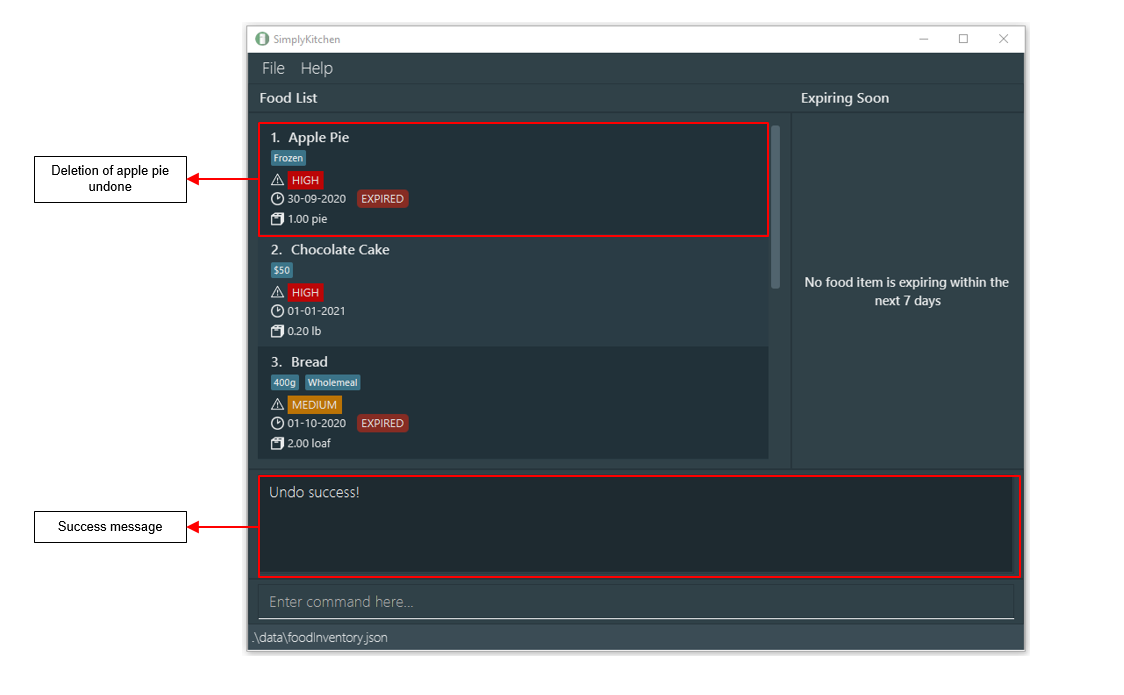
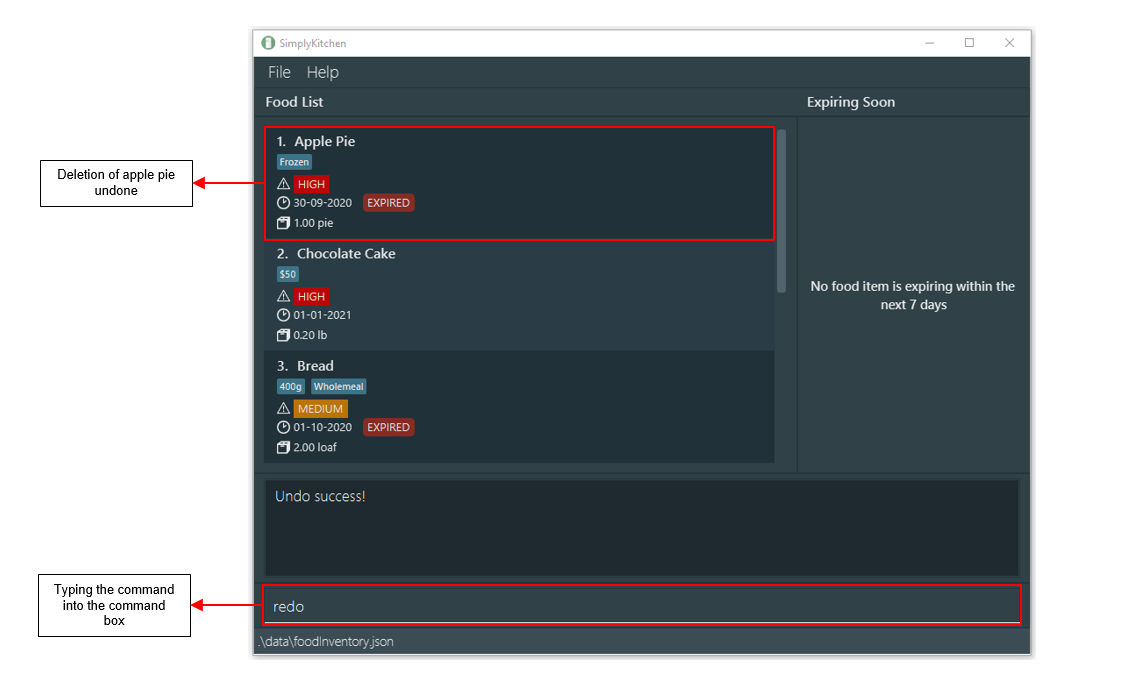
Update images

diff --git a/docs/UserGuide.md b/docs/UserGuide.md
@@ -286,7 +286,7 @@ The constraints for the individual parameters of this command (description, expi
 * `edit 2 d/canned tuna q/0.5 can t/` edits the food description of the 2nd food item to be `canned tuna`, quantity to `0.50 can` and clears all existing tags.
 
 Steps:
-1. Type `edit 2 d/canned tuna q/0.5 can t/` in the _Command Box_.
+1. Type `edit 2 p/high e/25-11-2020` in the _Command Box_.
 2. Press `Enter` to execute.
 
 Before the `edit` command is executed:
@@ -341,7 +341,7 @@ After the `delete` command is executed:
 
 ![After executing the delete command](images/DeleteCommandAfter.png)
 
-<p style="text-align: center; text-decoration: underline">Figure 10: The red box shows the new food item being added to the food list.</p>
+<p style="text-align: center; text-decoration: underline">Figure 10: The red box shows the message after the food item is deleted.</p>
 
 [Back to top](#table-of-contents)
 
@@ -381,7 +381,7 @@ If you have used up all the flour, use the [`delete`](#513-deleting-a-food-item-
 * `find d/tuna` followed by `changeqty 2 a/-2.50` decreases the quantity of the 2nd food item from the result of the `find` command by 2.50.
 
 Steps:
-1. Type `changeqty 2 a/-2.50` in the _Command Box_.
+1. Type `changeqty 3 a/-0.5` in the _Command Box_.
 2. Press `Enter` to execute.
 
 Before the `changeqty` command is executed:
@@ -431,7 +431,7 @@ Before the `sortdesc` command is executed:
 
 ![Before executing the sortdesc command](images/SortdescCommandBefore.png)
 
-<p style="text-align: center; text-decoration: underline">Figure 13: The red box shows the sort command being typed into the command box.</p>
+<p style="text-align: center; text-decoration: underline">Figure 13: The red box shows the sort by description command being typed into the command box.</p>
 
 Outcome:
 
@@ -462,7 +462,7 @@ Before the `sortexpiry` command is executed:
 
 ![Before executing the sortexpiry command](images/SortexpiryCommandBefore.png)
 
-<p style="text-align: center; text-decoration: underline">Figure 15: The red box shows the sort command being typed into the command box.</p>
+<p style="text-align: center; text-decoration: underline">Figure 15: The red box shows the sort by expiry date command being typed into the command box.</p>
 
 <br><br>
 Outcome:
@@ -494,7 +494,7 @@ Before the `sortpriority` command is executed:
 
 ![Before executing the sortpriority command](images/SortpriorityCommandBefore.png)
 
-<p style="text-align: center; text-decoration: underline">Figure 17: The red box shows the add command being typed into the command box.</p>
+<p style="text-align: center; text-decoration: underline">Figure 17: The red box shows the sort by priority command being typed into the command box.</p>
 
 <br><br>
 Outcome:
@@ -528,7 +528,7 @@ Before the `list` command is executed:
 
 ![Before executing the list command](images/ListCommandBefore.png)
 
-<p style="text-align: center; text-decoration: underline">Figure 19: The red box shows the add command being typed into the command box.</p>
+<p style="text-align: center; text-decoration: underline">Figure 19: The red box shows the list command being typed into the command box.</p>
 
 <br><br>
 Outcome:
@@ -537,7 +537,7 @@ After the `sortpriority` command is executed:
 
 ![Sorting by priority](images/ListCommandAfter.png)
 
-<p style="text-align: center; text-decoration: underline">Figure 20: All food items are listed</p>
+<p style="text-align: center; text-decoration: underline">Figure 20: Shows food list with all food items listed.</p>
 
 [Back to top](#table-of-contents)
 
@@ -571,14 +571,14 @@ The constraints for the individual parameters of this command (each description 
 * `find d/biscuits p/medium e/30-12-2020 t/cat t/dog` returns food items with `biscuits` in their descriptions, `MEDIUM` priorities, expiry dates of `30-12-2020` and have either `cat` or `dog` as tags.
 
 Steps:
-1. Type `find d/biscuits p/medium e/30-12-2020 t/cat t/dog` in the _Command Box_.
+1. Type `find e/1-11-2021` in the _Command Box_.
 2. Press `Enter` to execute.
 
 Before the `find` command is executed:
 
 ![Before executing the find command](images/FindCommandBefore.png)
 
-<p style="text-align: center; text-decoration: underline">Figure 21: The red box shows the add command being typed into the command box.</p>
+<p style="text-align: center; text-decoration: underline">Figure 21: The red box shows the find command being typed into the command box.</p>
 
 <br><br>
 Outcome:
@@ -587,7 +587,7 @@ After the `find` command is executed:
 
 ![After executing the find command](images/FindCommandAfter.png)
 
-<p style="text-align: center; text-decoration: underline">Figure 22: Food list displaying the result of the find command</p>
+<p style="text-align: center; text-decoration: underline">Figure 22: Shows the food list displaying the result of the find command</p>
 
 [Back to top](#table-of-contents)
 
@@ -607,13 +607,19 @@ Steps:
 1. Type `expired` in the _Command Box_.
 2. Press `Enter` to execute.
 
+Before the `expired` command is executed:
+
+![Before executing the expired command](images/ExpiredCommandBefore.png)
+
+<p style="text-align: center; text-decoration: underline">Figure 23: The red box shows the expired command being typed into the command box.</p>
+
 Outcome:
 
 After the `expired` command is executed:
 
 ![Pop up window of expired food items](images/ExpiredPopUpWindow.png)
 
-<p style="text-align: center; text-decoration: underline">Figure 23: A pop-up window listing all the expired food items</p>
+<p style="text-align: center; text-decoration: underline">Figure 24: A pop-up window listing all the expired food items</p>
 
 <div markdown="block" class="alert alert-info">
 
@@ -658,7 +664,7 @@ Before the `undo` command is executed:
 
 ![Before executing the undo command](images/UndoCommandBefore.png)
 
-<p style="text-align: center; text-decoration: underline">Figure 24: The red box shows the add command being typed into the command box.</p>
+<p style="text-align: center; text-decoration: underline">Figure 25: The red box shows the undo command being typed into the command box.</p>
 
 Outcome:
 
@@ -666,7 +672,7 @@ After the `undo` command is executed:
 
 ![Undo success](images/UndoSuccess.png)
 
-<p style="text-align: center; text-decoration: underline">Figure 25: The result box will display "Undo success!" if undo was successful.</p>
+<p style="text-align: center; text-decoration: underline">Figure 26: The result box will display "Undo success!" if undo was successful.</p>
 
 [Back to top](#table-of-contents)
 
@@ -696,15 +702,15 @@ Before the `redo` command is executed:
 
 ![Before executing the redo command](images/RedoCommandBefore.png)
 
-<p style="text-align: center; text-decoration: underline">Figure 26: The red box shows the add command being typed into the command box.</p>
+<p style="text-align: center; text-decoration: underline">Figure 27: The red box shows the redo command being typed into the command box.</p>
 
 Outcome:
 
 After the `redo` command is executed:
 
-![Redo success](images/RedoSuccess.png)
+![After executing the redo command](images/RedoCommandAfter.png)
 
-<p style="text-align: center; text-decoration: underline">Figure 27: The result box will display "Redo success!" if redo was successful</p>
+<p style="text-align: center; text-decoration: underline">Figure 28: The result box will display "Redo success!" if redo was successful</p>
 
 [Back to top](#table-of-contents)
 
@@ -728,13 +734,13 @@ Before the `clear` command is executed:
 
 ![Before executing the clear command](images/ClearCommandBefore.png)
 
-<p style="text-align: center; text-decoration: underline">Figure 28: The red box shows the add command being typed into the command box.</p>
+<p style="text-align: center; text-decoration: underline">Figure 29: The red box shows the clear command being typed into the command box.</p>
 
 After the `clear` command is executed:
 
 ![After executing the clear command](images/ClearCommandAfter.png)
 
-<p style="text-align: center; text-decoration: underline">Figure 29: The result box will display "Redo success!" if redo was successful</p>
+<p style="text-align: center; text-decoration: underline">Figure 30: The food list is cleared.</p>
 
 <div markdown="span" class="alert alert-danger">
 
@@ -759,13 +765,19 @@ Steps:
 1. Type `help` in the _Command Box_.
 2. Press `Enter` to execute.
 
+Before the `help` command is executed:
+
+![Before executing the help command](images/HelpCommandBefore.png)
+
+<p style="text-align: center; text-decoration: underline">Figure 31: The red box shows the help command being typed into the command box.</p>
+
 Outcome:
 
 After the `help` command is executed:
 
 ![help message](images/HelpMessage.png)
 
-<p style="text-align: center; text-decoration: underline">Figure 30: A pop-up window displaying the URL to the User Guide.</p>
+<p style="text-align: center; text-decoration: underline">Figure 32: A pop-up window displaying the URL to the User Guide.</p>
 
 [Back to top](#table-of-contents)
 
@@ -778,6 +790,10 @@ The `exit` command closes the application. This lets you easily exit the applica
 Steps:
 1. Type `exit` in the _Command Box_.
 2. Press `Enter` to execute.
+
+![exit command](images/ExitCommand.png)
+
+<p style="text-align: center; text-decoration: underline">Figure 33: The red box shows the exit command being typed into the command box.</p>
 
 [Back to top](#table-of-contents)
 
